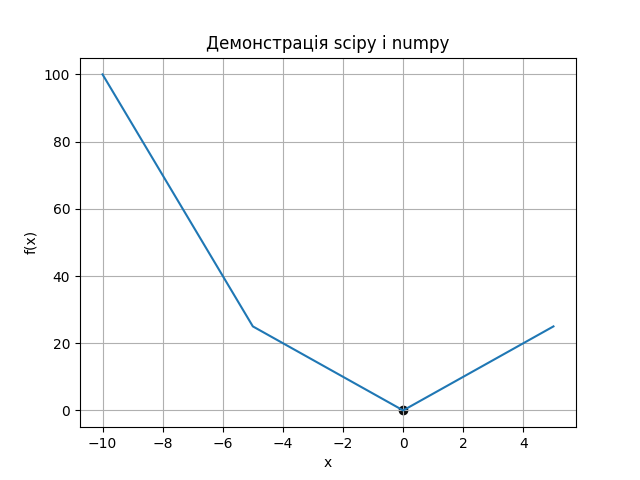
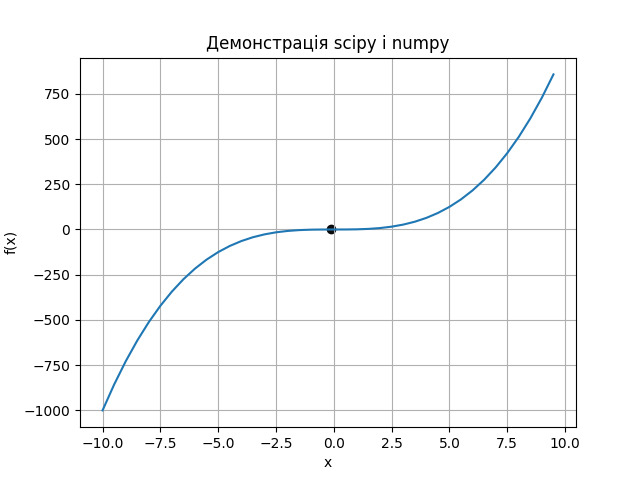
05/02/2021

diff --git a/+MODULES+/+Pandas/Series.py b/+MODULES+/+Pandas/Series.py
@@ -1,0 +1,35 @@
+import pandas as pd
+
+"""Series --- одномірна таблиця з одним пронумерованим стовпцем"""
+sr_0 = pd.Series(data=None, index=None, dtype='object', name=None, copy=None, fastpath=None)
+# data - масив, скаляр або dict  ---  структура тпблиці
+# index - одновим. масив, список міток для доступу до е-тів Series (довжина сп = довжина data)
+# dtype  - тип даних
+# copy - при True створюєится копія масиву даних
+
+sr_1 = pd.Series([1, 2, 3, 4, 5], ['a', 'b', 'c', 'd', 'e'])  # простий масив даних
+# print(sr_1)
+
+# -----------------
+import numpy as np
+
+arr = np.array([1, 2, 3, 4, 5])
+sr_2 = pd.Series(arr, ['a', 'b', 'c', 'd', 'e'])  # використання векторів з numpy
+# print(sr_2)
+
+# -----------------
+dc = {'a': 1, 'b': 2, 'c': 3}  # класичне використання словників
+sr_3 = pd.Series(dc)
+# print(sr_3)
+
+# -----------------
+a = 13
+sr_4 = pd.Series(a, ['a', 'b', 'c'])  # використання констант для узагальнення даних
+# print(sr_4)
+
+"""Робота з Series:"""
+s0 = sr_4[0]  # вибір елемента таблиці за значенням
+s1 = sr_4['a']  # вибір елемента таблиці за ключем
+s2 = sr_4[:2] + sr_4['a':'d']  # зріз
+s3 = sr_4[sr_4 <= 13]  # умовний зріз
+s4 = s3 + s2 * s1  # дії, як над векторами

diff --git a/++Rest/Перцептрон.py b/++Rest/Перцептрон.py
@@ -8,7 +8,8 @@ def sigmoid(x):
     return 1 / (1 + np.exp(-x))
 
 
-training_inputs = np.array([[0, 0, 1],  # вхідні дані
+training_inputs = np.array([[0, 0, 1
+                                ,  # вхідні дані
                             [1, 1, 1],
                             [1, 0, 1],
                             [0, 1, 1]])

diff --git a/+MODULES+/+SciPy/expamles/minimize.py b/+MODULES+/+SciPy/expamles/minimize.py
@@ -4,10 +4,10 @@ import numpy as np
 
 
 def f(x):
-    return x ** 2
+    return x ** 3
 
 
-x_arr = np.arange(-10, 10, 5)
+x_arr = np.arange(-10, 10, .5)
 y_arr = np.array([f(x) for x in x_arr])
 
 o_m = minimize(f, np.array(1), method='BFGS')
